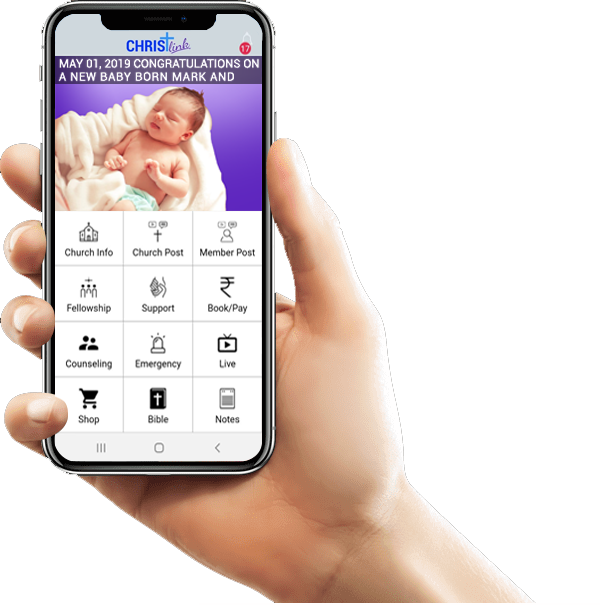
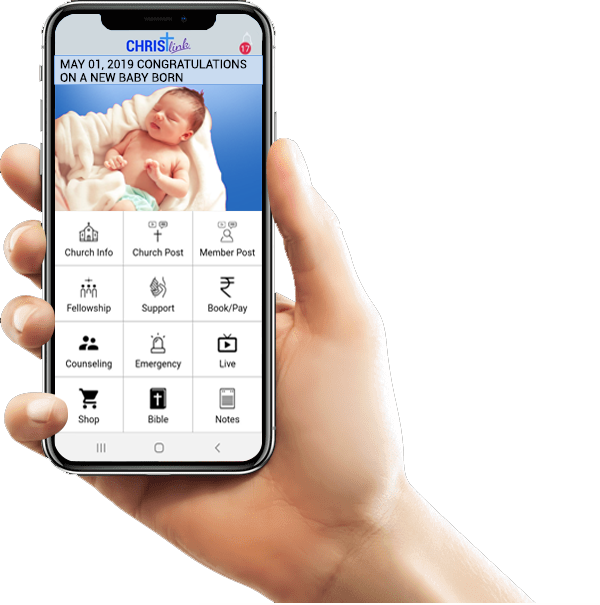
all pages updated

Changed region(s): [[0.09, 0.0893, 0.45, 0.357]]

diff --git a/assets/css/style.css b/assets/css/style.css
@@ -361,7 +361,7 @@ input::-webkit-input-placeholder {
     background: #000529; /* Old browsers */
     background: -moz-linear-gradient(left, #000529 1%, #002055 24%, #005db5 67%, #0074d9 100%); /* FF3.6-15 */
     background: -webkit-linear-gradient(left, #000529 1%,#002055 24%,#005db5 67%,#0074d9 100%); /* Chrome10-25,Safari5.1-6 */
-    background: linear-gradient(to right, #cecece 1%,#cecece 24%,#0a3bfe 67%,#496af3 100%);
+    background: linear-gradient(to right, #cecece 1%,#cecece 24%,#90a4f7 67%,#496af3 100%);
 }
 .header.sticky {
     padding: 10px 0;

diff --git a/index.php b/index.php
@@ -42,7 +42,7 @@
                 </div>
                 <div class="row">
                     <div class="col-lg-4">
-                        <div class="single-about-box">
+                        <div class="single-about-box active">
                             <i class="icofont icofont-cubes"></i>
                             <h4>Opportunity</h4>
                             <p>An opportunity for the community of believers to be able to express Christian virtues of sharing and caring at times of emergency and need.</p>
@@ -56,7 +56,7 @@
                         </div>
                     </div>
                     <div class="col-lg-4">
-                        <div class="single-about-box">
+                        <div class="single-about-box active">
                             <i class="icofont icofont-newspaper"></i>
                             <h4>Business and Logistical needs</h4>
                             <p>A one stop solution for all your business and logistical needs at the time of birth, death, weddings, baptisms, confirmations, prayer meetings and thanksgivings etc. </p>
@@ -207,6 +207,7 @@
                                     <div class="col-md-7 padding-top-40">
                                         <h4>Fellowships</h4>
                                         <br/>
+                                        <p>Fellowships can be created based on the church's requirement such as Youth Fellowship, Sunday School, Women Fellowship, Men Fellowship, Bible Study, Life Group, etc.</p>
                                         <ul class="text-left">
                                             <i class='icofont icofont-ui-check'></i><li> &nbsp; Information regarding the various fellowships/ house groups/ cell groups etc</li>
                                             <i class='icofont icofont-ui-check'></i><li> &nbsp; when the groups meet – how long is the meeting for</li>
@@ -266,7 +267,7 @@
                                         <h4>Counselling</h4>
                                         <br/>
                                         <ul class="text-left">
-                                            <li>Contact information for church appointed and church approved counsellors in various fields who will handle sessions with confidentiality and real time support in matters of
+                                            <li>Contact information of church appointed and church approved counsellors in various fields who will handle sessions with confidentiality and real time support in matters of
                                                 <ul>
                                                     <i class='icofont icofont-ui-check'></i><li> &nbsp; Sexual issues.</li>
                                                     <i class='icofont icofont-ui-check'></i><li> &nbsp; Relationships in marriage</li>
@@ -333,6 +334,7 @@
                                             <i class='icofont icofont-ui-check'></i><li> &nbsp; Bibles</li>
                                             <i class='icofont icofont-ui-check'></i><li> &nbsp; Christian books</li>
                                             <i class='icofont icofont-ui-check'></i><li> &nbsp; Christian articles and gift items</li>
+                                            <i class='icofont icofont-ui-check'></i><li> &nbsp; CD's / DVD's and Music</li>
                                         </ul>
                                     </div>
                                     <div class="col-md-5 margin-buttom-20">
@@ -346,11 +348,11 @@
                                         <h4>Bible</h4>
                                         <br/>
                                         <ul class="text-left">
-                                            <li>like to the church approved mobile applications and WebPages for
+                                            <li>linked to the church approved mobile applications and WebPages for
                                                 <ul>
-                                                    <i class='icofont icofont-ui-check'></i><li> &nbsp; Bible,</li>
-                                                    <i class='icofont icofont-ui-check'></i><li> &nbsp; Bible commentary,</li>
-                                                    <i class='icofont icofont-ui-check'></i><li> &nbsp; bible resources</li>
+                                                    <i class='icofont icofont-ui-check'></i><li> &nbsp; Bible</li>
+                                                    <i class='icofont icofont-ui-check'></i><li> &nbsp; Bible Commentary</li>
+                                                    <i class='icofont icofont-ui-check'></i><li> &nbsp; Bible Resources</li>
                                                     <i class='icofont icofont-ui-check'></i><li> &nbsp; Etc</li>
                                                 </ul>
                                             </li>
@@ -442,7 +444,7 @@
                                     </div>
                                 </li>
                                 <li>
-                                    <div class="feature-box-info pop" data-toggle="popover" data-container="body" data-placement="left" title="Fellowships" data-html="true" data-content="<ul><i class='icofont icofont-ui-check'></i><li> &nbsp;&nbsp;&nbsp;&nbsp;&nbsp; Information regarding the various fellowships/ house groups/ cell groups etc</li><i class='icofont icofont-ui-check'></i><li> &nbsp;&nbsp;&nbsp;&nbsp;&nbsp; When the groups meet – how long is the meeting for</li><i class='icofont icofont-ui-check'></i><li> &nbsp;&nbsp;&nbsp;&nbsp;&nbsp; What the  groups do – past and present and future projects</li><i class='icofont icofont-ui-check'></i><li> &nbsp;&nbsp;&nbsp;&nbsp;&nbsp; Where the groups meet – location and address</li><i class='icofont icofont-ui-check'></i><li> &nbsp;&nbsp;&nbsp;&nbsp;&nbsp; Contact person and contact information</li><i class='icofont icofont-ui-check'></i><li> &nbsp;&nbsp;&nbsp;&nbsp;&nbsp; Gallery</li></ul>">
+                                    <div class="feature-box-info pop" data-toggle="popover" data-container="body" data-placement="left" title="Fellowships" data-html="true" data-content="<p>Fellowships can be created based on the church's requirement such as Youth Fellowship, Sunday School, Women Fellowship, Men Fellowship, Bible Study, Life Group, etc.</p><ul><i class='icofont icofont-ui-check'></i><li> &nbsp;&nbsp;&nbsp;&nbsp;&nbsp; Information regarding the various fellowships/ house groups/ cell groups etc</li><i class='icofont icofont-ui-check'></i><li> &nbsp;&nbsp;&nbsp;&nbsp;&nbsp; When the groups meet – how long is the meeting for</li><i class='icofont icofont-ui-check'></i><li> &nbsp;&nbsp;&nbsp;&nbsp;&nbsp; What the  groups do – past and present and future projects</li><i class='icofont icofont-ui-check'></i><li> &nbsp;&nbsp;&nbsp;&nbsp;&nbsp; Where the groups meet – location and address</li><i class='icofont icofont-ui-check'></i><li> &nbsp;&nbsp;&nbsp;&nbsp;&nbsp; Contact person and contact information</li><i class='icofont icofont-ui-check'></i><li> &nbsp;&nbsp;&nbsp;&nbsp;&nbsp; Gallery</li></ul>">
                                         <h4>Fellowships</h4>
                                     </div>
                                     <div class="feature-box-icon">
@@ -486,7 +488,7 @@
                                     <div class="feature-box-icon">
                                         <i class="icofont icofont-brand-myspace"></i>
                                     </div>
-                                    <div class="feature-box-info pop" data-toggle="popover" data-container="body" data-placement="right" title="Counselling" data-html="true" data-content="<p>Contact information for church appointed and church approved counsellors in various fields who will handle sessions with confidentiality and real time support in matters of</p> <ul><i class='icofont icofont-ui-check'></i><li> &nbsp;&nbsp;&nbsp;&nbsp;&nbsp; Sexual issues.</li><i class='icofont icofont-ui-check'></i><li> &nbsp;&nbsp;&nbsp;&nbsp;&nbsp; Relationships in marriage</li><i class='icofont icofont-ui-check'></i><li> &nbsp;&nbsp;&nbsp;&nbsp;&nbsp; Relationships in family</li><i class='icofont icofont-ui-check'></i><li> &nbsp;&nbsp;&nbsp;&nbsp;&nbsp; Friends at school/office etc</li><i class='icofont icofont-ui-check'></i><li> &nbsp;&nbsp;&nbsp;&nbsp;&nbsp; Academic and career based </li><i class='icofont icofont-ui-check'></i><li> &nbsp;&nbsp;&nbsp;&nbsp;&nbsp; Business and work related</li><i class='icofont icofont-ui-check'></i><li> &nbsp;&nbsp;&nbsp;&nbsp;&nbsp; Other</li></ul>">
+                                    <div class="feature-box-info pop" data-toggle="popover" data-container="body" data-placement="right" title="Counselling" data-html="true" data-content="<p>Contact information of church appointed and church approved counsellors in various fields who will handle sessions with confidentiality and real time support in matters of</p> <ul><i class='icofont icofont-ui-check'></i><li> &nbsp;&nbsp;&nbsp;&nbsp;&nbsp; Sexual issues.</li><i class='icofont icofont-ui-check'></i><li> &nbsp;&nbsp;&nbsp;&nbsp;&nbsp; Relationships in marriage</li><i class='icofont icofont-ui-check'></i><li> &nbsp;&nbsp;&nbsp;&nbsp;&nbsp; Relationships in family</li><i class='icofont icofont-ui-check'></i><li> &nbsp;&nbsp;&nbsp;&nbsp;&nbsp; Friends at school/office etc</li><i class='icofont icofont-ui-check'></i><li> &nbsp;&nbsp;&nbsp;&nbsp;&nbsp; Academic and career based </li><i class='icofont icofont-ui-check'></i><li> &nbsp;&nbsp;&nbsp;&nbsp;&nbsp; Business and work related</li><i class='icofont icofont-ui-check'></i><li> &nbsp;&nbsp;&nbsp;&nbsp;&nbsp; Other</li></ul>">
                                         <h4>Counselling</h4>
                                     </div>
                                 </li>
@@ -510,7 +512,7 @@
                                     <div class="feature-box-icon">
                                         <i class="icofont icofont-cart"></i>
                                     </div>
-                                    <div class="feature-box-info pop" data-toggle="popover" data-container="body" data-placement="right" title="Shop" data-html="true" data-content="<p>Shop – Access your church book store/ Shop - from the click of a button on your smart phone at discounted prices</p><ul><i class='icofont icofont-ui-check'></i><li> &nbsp;&nbsp;&nbsp;&nbsp;&nbsp; Bibles</li><i class='icofont icofont-ui-check'></i><li> &nbsp;&nbsp;&nbsp;&nbsp;&nbsp; Christian books</li><i class='icofont icofont-ui-check'></i><li> &nbsp;&nbsp;&nbsp;&nbsp;&nbsp; Christian articles and gift items</li></ul>">
+                                    <div class="feature-box-info pop" data-toggle="popover" data-container="body" data-placement="right" title="Shop" data-html="true" data-content="<p>Shop – Access your church book store/ Shop - from the click of a button on your smart phone at discounted prices</p><ul><i class='icofont icofont-ui-check'></i><li> &nbsp;&nbsp;&nbsp;&nbsp;&nbsp; Bibles</li><i class='icofont icofont-ui-check'></i><li> &nbsp;&nbsp;&nbsp;&nbsp;&nbsp; Christian books</li><i class='icofont icofont-ui-check'></i><li> &nbsp;&nbsp;&nbsp;&nbsp;&nbsp; Christian articles and gift items</li><i class='icofont icofont-ui-check'></i><li> &nbsp;&nbsp;&nbsp;&nbsp;&nbsp; CD's / DVD's and Music</li></ul>">
                                         <h4>Shop</h4>
                                     </div>
                                 </li>
@@ -518,7 +520,7 @@
                                     <div class="feature-box-icon">
                                         <i class="icofont icofont-book-alt"></i>
                                     </div>
-                                    <div class="feature-box-info pop" data-toggle="popover" data-container="body" data-placement="right" title="Bible" data-html="true" data-content="<p>like to the church approved mobile applications and WebPages for</p><ul><i class='icofont icofont-ui-check'></i><li> &nbsp;&nbsp;&nbsp;&nbsp;&nbsp; Bible,</li><i class='icofont icofont-ui-check'></i><li> &nbsp;&nbsp;&nbsp;&nbsp;&nbsp; Bible commentary,</li><i class='icofont icofont-ui-check'></i><li> &nbsp;&nbsp;&nbsp;&nbsp;&nbsp; bible resources</li><i class='icofont icofont-ui-check'></i><li> &nbsp;&nbsp;&nbsp;&nbsp;&nbsp; Etc</li></ul>">
+                                    <div class="feature-box-info pop" data-toggle="popover" data-container="body" data-placement="right" title="Bible" data-html="true" data-content="<p>linked to the church approved mobile applications and WebPages for</p><ul><i class='icofont icofont-ui-check'></i><li> &nbsp;&nbsp;&nbsp;&nbsp;&nbsp; Bible</li><i class='icofont icofont-ui-check'></i><li> &nbsp;&nbsp;&nbsp;&nbsp;&nbsp; Bible Commentary</li><i class='icofont icofont-ui-check'></i><li> &nbsp;&nbsp;&nbsp;&nbsp;&nbsp; Bible Resources</li><i class='icofont icofont-ui-check'></i><li> &nbsp;&nbsp;&nbsp;&nbsp;&nbsp; Etc</li></ul>">
                                         <h4>Bible</h4>
                                     </div>
                                 </li>
